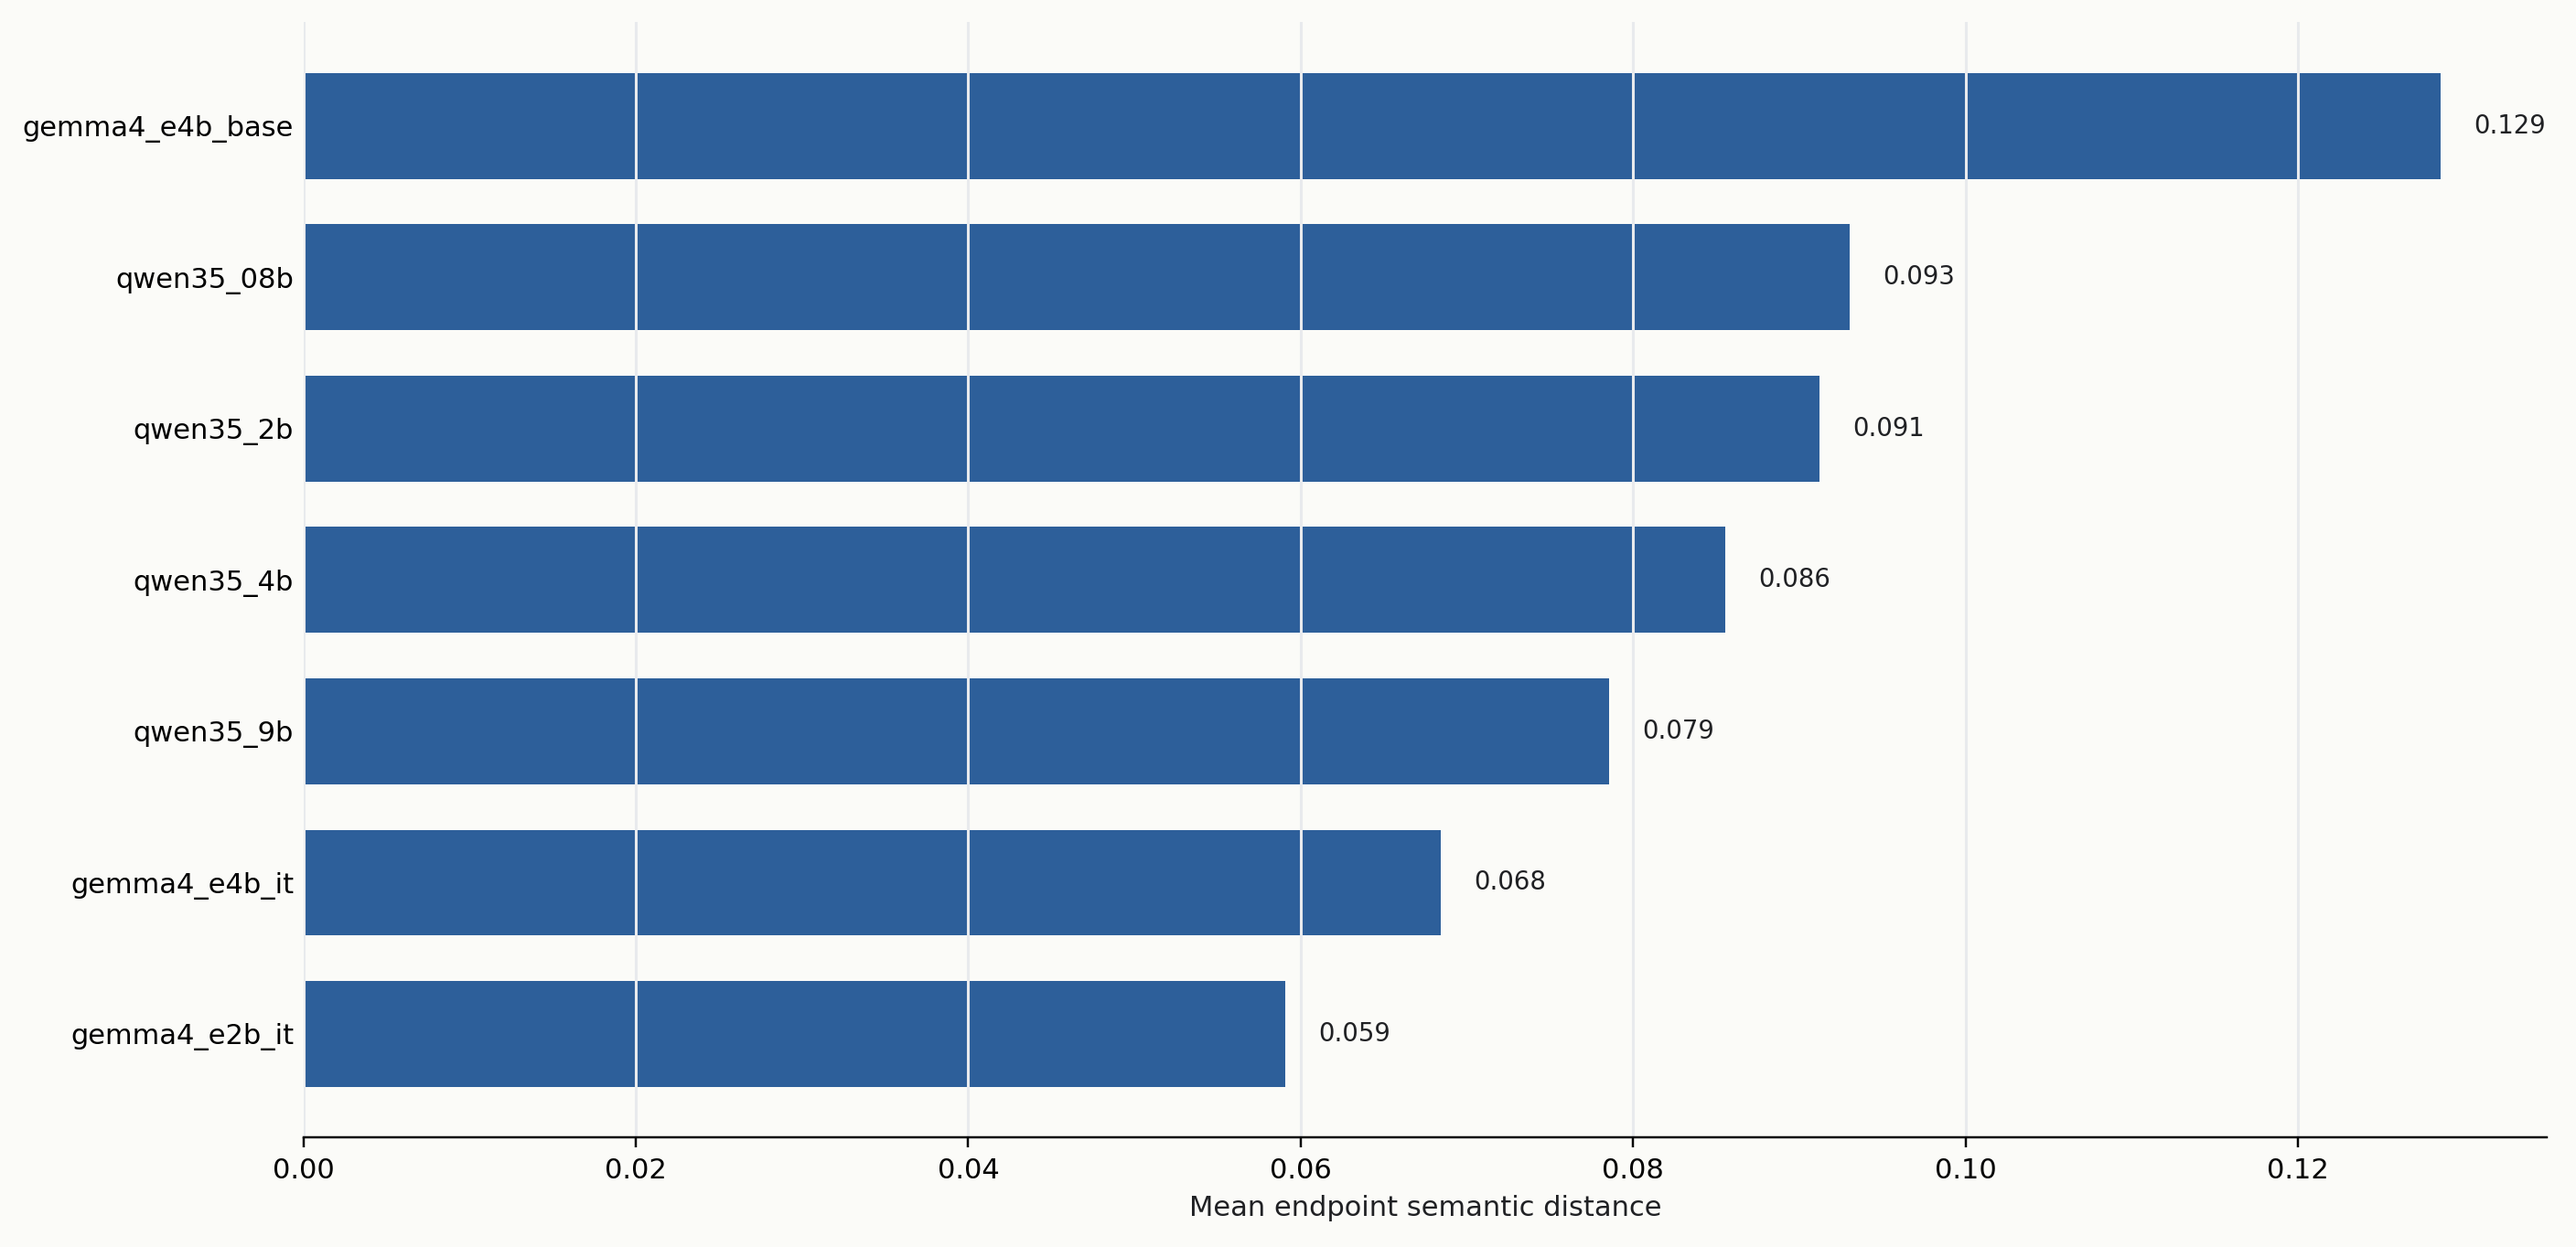
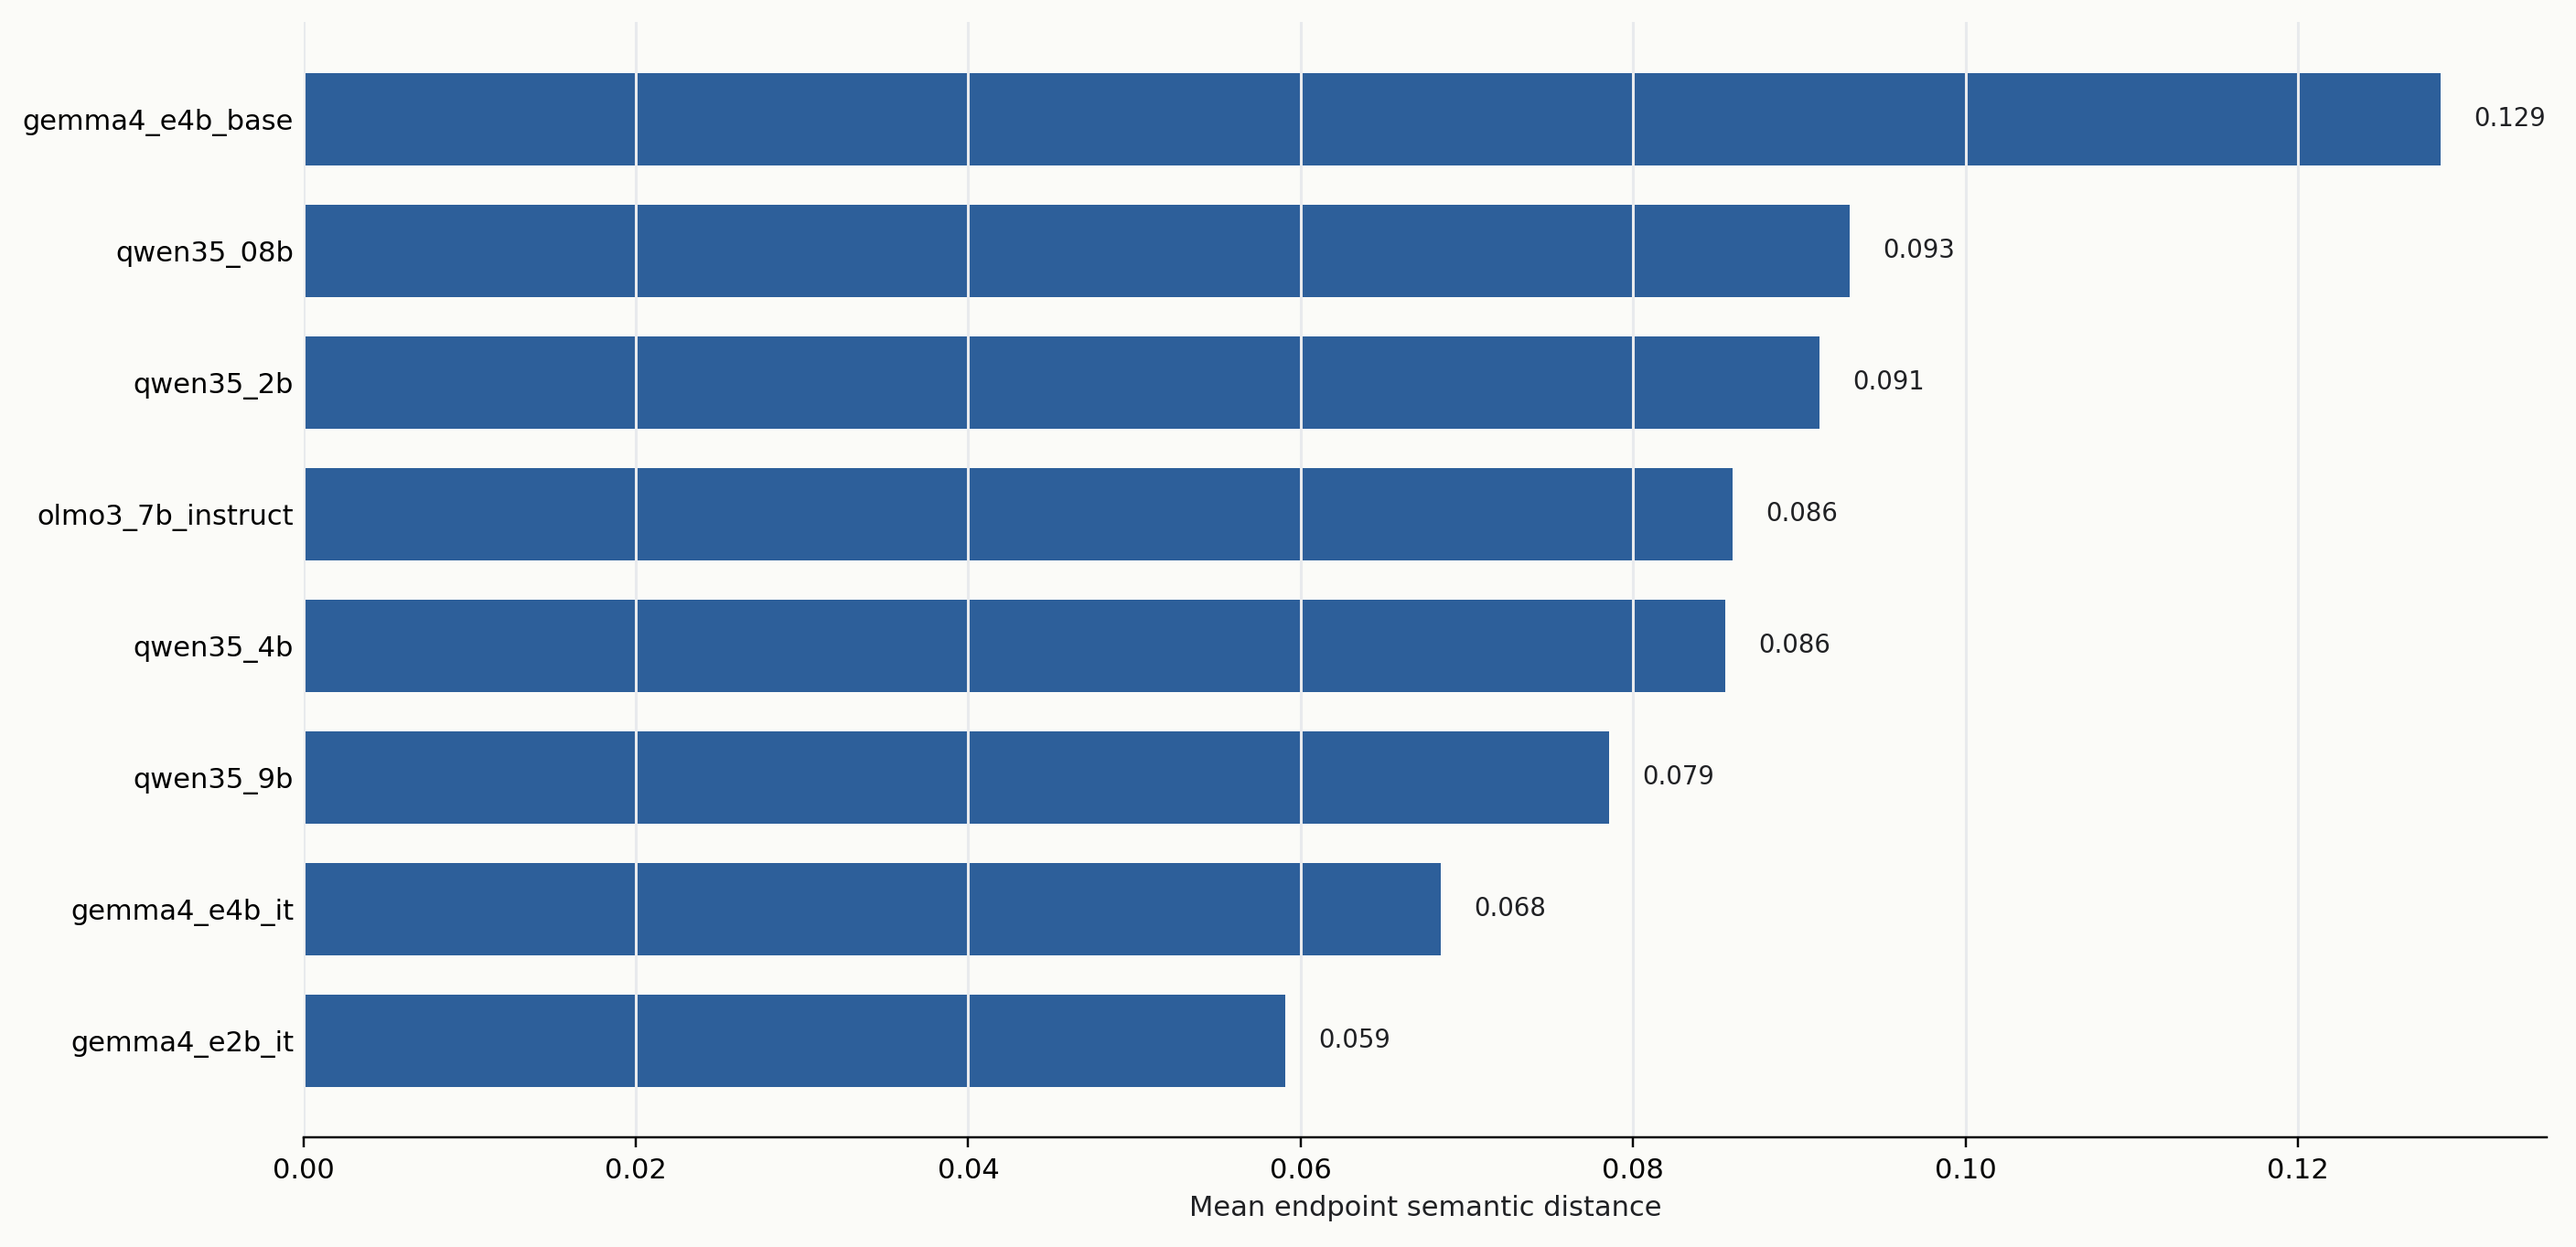
Recover partial token micro runs

diff --git a/scripts/process_micro_sweep.py b/scripts/process_micro_sweep.py
@@ -38,6 +38,16 @@ def write_summary_from_generations(run_dir: Path) -> None:
     rows = [json.loads(line) for line in (run_dir / "generations.jsonl").open()]
     by_key: dict[tuple, dict[str, dict]] = {}
     key_fields = ["model_name", "pair_id", "category", "repeat", "sample", "seed_a", "seed_b"]
+    prompt_delta_fields = [
+        "formatted_prompt_equal",
+        "prompt_token_equal",
+        "prompt_token_edit_distance",
+        "prompt_token_delta_kind",
+        "prompt_token_lcp",
+        "prompt_input_tokens_a",
+        "prompt_input_tokens_b",
+        "prompt_input_token_delta",
+    ]
     for row in rows:
         key = tuple(row.get(field) for field in key_fields)
         by_key.setdefault(key, {})[row["side"]] = row
@@ -54,7 +64,8 @@ def write_summary_from_generations(run_dir: Path) -> None:
             a["generated_text"],
             b["generated_text"],
         )
-        summary_rows.append({**dict(zip(key_fields, key)), **metrics})
+        prompt_delta = {field: a.get(field) for field in prompt_delta_fields if field in a}
+        summary_rows.append({**dict(zip(key_fields, key)), **prompt_delta, **metrics})
 
     if not summary_rows:
         raise SystemExit("No completed A/B pairs found in generations.jsonl")

diff --git a/scripts/process_token_micro_queue.py b/scripts/process_token_micro_queue.py
@@ -100,9 +100,24 @@ def process_completed(job: dict[str, Any], region: str, artifact_dir: Path, rank
         print(f"No generations.jsonl found for {name} under {extract_dir}", flush=True)
         return False
 
-    validate_token_micro_run(run_dir)
     out_dir = rank_dir / model_name
     marker = out_dir / "summary.json"
+    if not (run_dir / "summary.csv").exists():
+        run(
+            [
+                "uv",
+                "run",
+                "python",
+                "scripts/process_micro_sweep.py",
+                str(run_dir),
+                "--out-dir",
+                str(out_dir),
+            ]
+        )
+        validate_token_micro_run(run_dir)
+        return True
+
+    validate_token_micro_run(run_dir)
     if marker.exists():
         return False
     run(

diff --git a/docs/experiment_index.md b/docs/experiment_index.md
@@ -11,7 +11,7 @@ details in `experiments/E##_*/README.md` and generated artifacts under `runs/`.
 | E02 | Broad model panel | Are stability signatures model/recipe dependent beyond Qwen? | Supporting result | `runs/rankings/wave2_13model_bootstrap`, `runs/rankings/final_21model_readout` | Clusters exist, but exact rankings are fragile; prompt pair is the statistical unit. | Prefer recipe/family matched comparisons over broad leaderboard expansion. |
 | E03 | Scaffold confound | Are stable-looking reasoning models preserving content or deterministic scaffolds? | Active caveat | `runs/inspection/generation_prefixes_final21.csv`, `runs/rankings/scaffold_analysis`, `runs/rankings/scaffold_long_wave` | Some stability is scaffold stability; reasoning-on streams need separate treatment. | Keep scaffold/content boundary caveats explicit. |
 | E04 | Quantization/collapse controls | Can a model look stable because it collapsed onto a narrower output manifold? | Supporting caveat | `runs/quantization_fidelity/qwen_quantized_vs_bf16_small_summary.csv` | 4-bit Qwen0.8B can look more stable while drifting from BF16. | Pair stability metrics with fidelity checks for compression/model-editing claims. |
-| E05 | Token-certified micro perturbations | Which tiny edits survive tokenization and move deterministic outputs? | Active measurement hygiene | `configs/prompt_pairs_token_certified/`, `runs/rankings/token_micro_v2`, `runs/rankings/token_micro_v3`, `experiments/E05_token_cert_micro/` | Many raw character edits normalize away; token-certified edits still produce real branches. | Use prompt-token-effective pairs only for tiny-edit claims. |
+| E05 | Token-certified micro perturbations | Which tiny edits survive tokenization and move deterministic outputs? | Active measurement hygiene | `configs/prompt_pairs_token_certified/`, `runs/rankings/token_micro_v2`, `runs/rankings/token_micro_v3`, `experiments/E05_token_cert_micro/` | Many raw character edits normalize away; token-certified edits still produce real branches; OLMo3 repair is recoverable but partial (`152` effective rows). | Use prompt-token-effective pairs only for tiny-edit claims. |
 | E06 | Logit boundary probe | Do prompt-end and teacher-forced logit metrics explain later divergence? | Active mechanism wave | `configs/sagemaker_queue_logit_token_cert_v1.json`, `runs/rankings/logit_token_cert_v1`, `experiments/E06_logit_boundary/` | Processed Qwen0.8B/2B/4B/9B and Gemma E2B IT: Qwen4B slots between Qwen2B and Qwen9 on semantic mean but has higher prompt-end JS/flip rate than Qwen2B. | Process Gemma base/E4B logit jobs when they land. |
 | E07 | Mechanistic branch patching | Can residual activation patching move tiny-edit branch tokens? | Local causal pilot | `runs/mechinterp_patch`, `runs/mechinterp_patch_aligned`, `experiments/E07_mech_branch_patching/` | Replayable cases rescue at late final-context residual states; `(a)` has edit-boundary rescue; tab-after-space is more distributed. | Expand by mechanism type only. |
 | E08 | SAE feature pilot | Do SAE feature activations at causal branch positions distinguish clean vs perturbed states? | Feature-ID pilot | `runs/mechinterp_sae`, `experiments/E08_sae_feature_pilot/` | Qwen-Scope feature overlap/deltas match patching positions, but features are not human-labeled. | Add labels/steering only if the feature source supports it. |

diff --git a/docs/task_list.md b/docs/task_list.md
@@ -217,9 +217,10 @@ Token-certified v3 reinforcement wave:
   `token-cert-v3`:
   - `scripts/sagemaker_queue_supervisor.py --queue configs/sagemaker_queue_token_certified_v3.json --passes 0 --sleep-s 600`
   - `scripts/process_token_micro_queue.py --queue configs/sagemaker_queue_token_certified_v3.json --rank-dir runs/rankings/token_micro_v3 --passes 0 --sleep-s 900`
-- Live status at 2026-04-30 16:40 -0300:
+- Live status at 2026-04-30 19:35 -0300:
   - Processed in `runs/rankings/token_micro_v3/`: Qwen3.5 0.8B, 2B, 4B, 9B
-    thinking-off; Gemma4 E2B/E4B instruct; Gemma4 E4B base.
+    thinking-off; Gemma4 E2B/E4B instruct; Gemma4 E4B base; partial OLMo3 7B
+    instruct.
   - Completed but still incomplete for this analysis: Gemma4 E2B base
     `-003` produced partial raw rows but no `summary.csv`. A processing retry
     recorded
@@ -227,17 +228,20 @@ Token-certified v3 reinforcement wave:
   - Repair jobs currently in progress:
     `chaos-token-micro-gemma-e2b-base-token-cert-20260430-004`,
     `chaos-token-micro-opt-6p7b-20260430-004`.
-  - Completed but unusable repair: `chaos-token-micro-olmo3-7b-20260430-004`
-    produced no `summary.csv` after CUDA errors near the end of the run
-    (354 generation rows, 348 failure rows). Keep it out of v3 claims unless a
-    smaller retry is explicitly launched.
+  - Recovered partial repair: `chaos-token-micro-olmo3-7b-20260430-004`
+    produced no `summary.csv`, but `scripts/process_micro_sweep.py` recovered
+    one from `generations.jsonl`. It has 177 summary rows = 25 controls + 152
+    effective non-controls after CUDA errors near the end, so keep it caveated
+    in v3 claims.
   - Logit mechanism jobs currently in progress:
-    `chaos-logit-token-cert-qwen9b-thinkoff-20260430-001`,
-    `chaos-logit-token-cert-gemma-e2b-it-20260430-001`.
-  - Current v3 processed means, all with 500 effective token perturbations:
+    `chaos-logit-token-cert-gemma-e2b-base-20260430-001`,
+    `chaos-logit-token-cert-gemma-e4b-it-20260430-001`,
+    `chaos-logit-token-cert-gemma-e4b-base-20260430-001`.
+  - Current v3 processed means:
     Gemma4 E4B base `0.1286`, Qwen3.5 0.8B `0.0930`, Qwen3.5 2B `0.0912`,
-    Qwen3.5 4B `0.0855`, Qwen3.5 9B `0.0786`, Gemma4 E4B instruct `0.0684`,
-    Gemma4 E2B instruct `0.0591`.
+    OLMo3 7B instruct `0.0860` over 152 effective rows, Qwen3.5 4B `0.0855`,
+    Qwen3.5 9B `0.0786`, Gemma4 E4B instruct `0.0684`, Gemma4 E2B instruct
+    `0.0591`.
   - Added `scripts/analyze_token_micro_panel.py`; current bootstrap output is
     under `runs/rankings/token_micro_v3/stats/`.
 

diff --git a/docs/results_digest.md b/docs/results_digest.md
@@ -228,13 +228,14 @@ The earlier micro sweep found that many raw character edits never survived
 tokenization or chat-template formatting as real prompt-token deltas. The v3
 reinforcement wave now uses model-specific certified prompt files: 25 identical
 controls plus 500 effective prompt-token perturbations per selected model. As
-of the 2026-04-30 16:40 -0300 live check, processed v3 means are:
+of the 2026-04-30 19:35 -0300 processing pass, processed v3 means are:
 
 | Model | Effective pairs | Mean 512-token semantic distance | P90 |
 | --- | ---: | ---: | ---: |
 | Gemma4 E4B base | 500 | 0.129 | 0.303 |
 | Qwen3.5 0.8B thinking-off | 500 | 0.093 | 0.165 |
 | Qwen3.5 2B thinking-off | 500 | 0.091 | 0.165 |
+| OLMo3 7B instruct | 152 | 0.086 | 0.137 |
 | Qwen3.5 4B thinking-off | 500 | 0.086 | 0.160 |
 | Qwen3.5 9B thinking-off | 500 | 0.079 | 0.141 |
 | Gemma4 E4B instruct | 500 | 0.068 | 0.165 |
@@ -242,11 +243,14 @@ of the 2026-04-30 16:40 -0300 live check, processed v3 means are:
 
 This is still not the final v3 panel: Gemma4 E2B base `-003` completed but
 still produced partial raw rows with no `summary.csv`; repair job `-004` is in
-progress. The safe claim is already useful: token-aware filtering is not a
-pedantic detail; it changes which examples are admissible evidence, and the
-base-vs-instruct Gemma split remains a high-signal recipe contrast. The
-token-certified Qwen ladder is ordered 0.8B/2B/4B/9B by decreasing mean
-sensitivity, but 0.8B and 2B are not cleanly separated by paired permutation.
+progress. OLMo3 `-004` was recoverable from raw generations, but it has only
+`152` effective non-control rows after CUDA failures near the end, so treat it
+as a partial sanity check rather than a full panel point. The safe claim is
+already useful: token-aware filtering is not a pedantic detail; it changes
+which examples are admissible evidence, and the base-vs-instruct Gemma split
+remains a high-signal recipe contrast. The token-certified Qwen ladder is
+ordered 0.8B/2B/4B/9B by decreasing mean sensitivity, but 0.8B and 2B are not
+cleanly separated by paired permutation.
 
 The next important contrast is training era/post-training recipe, but it should
 not be reduced to either "modern equals stable" or "older equals stable." A
